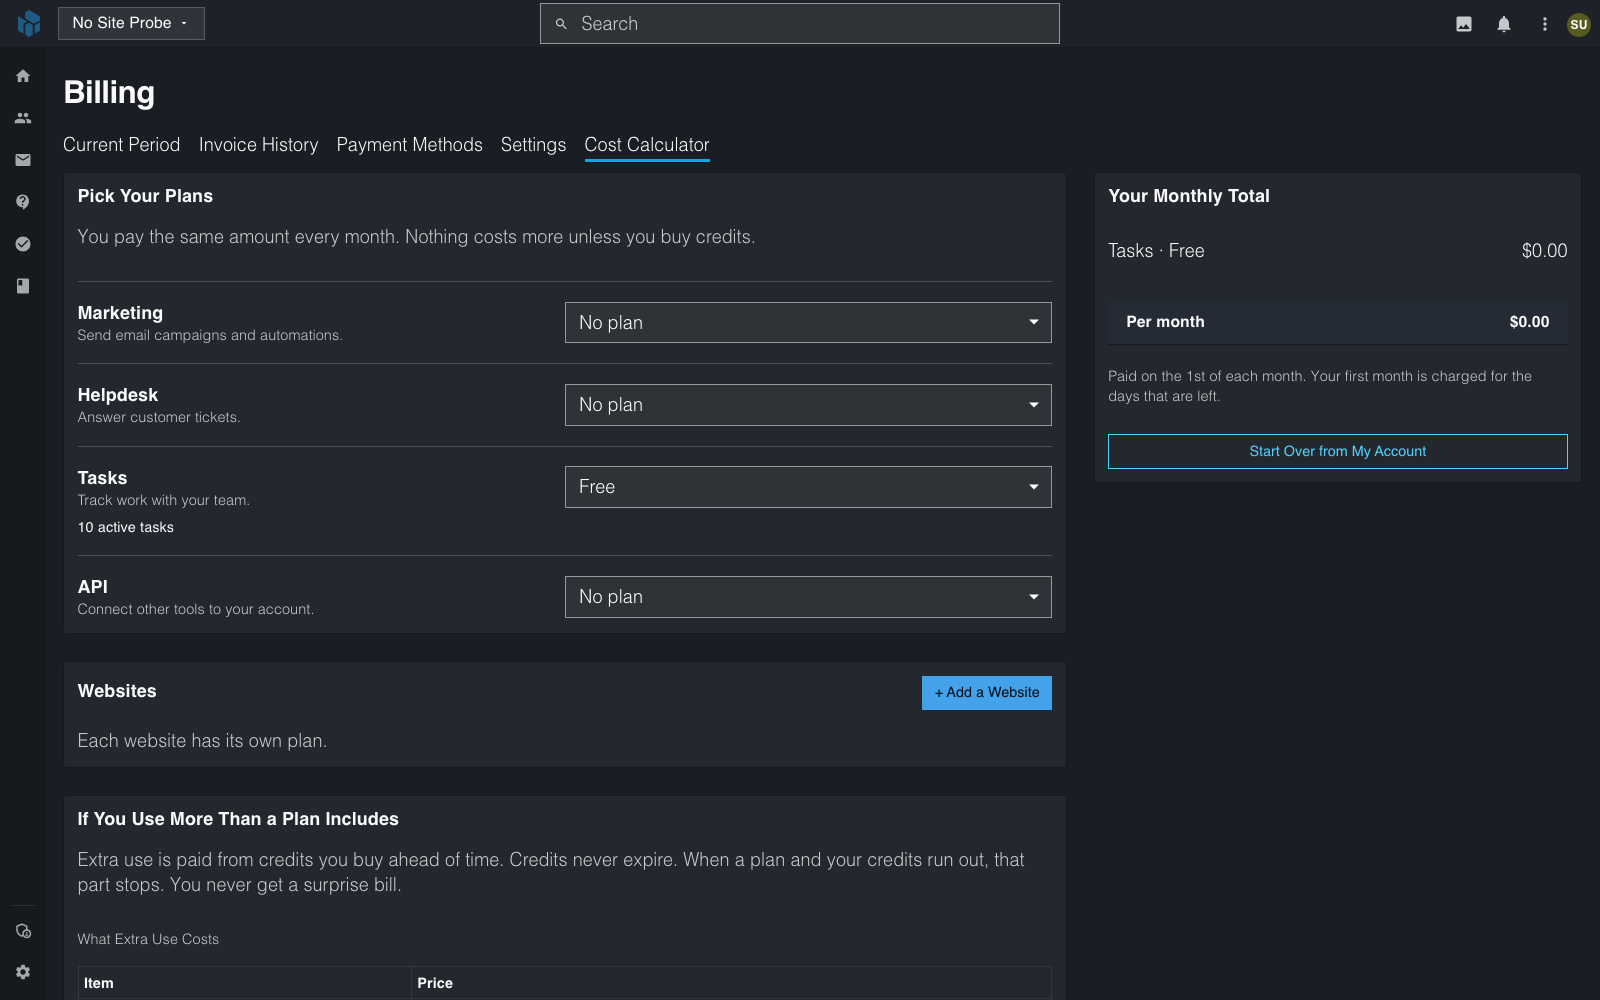
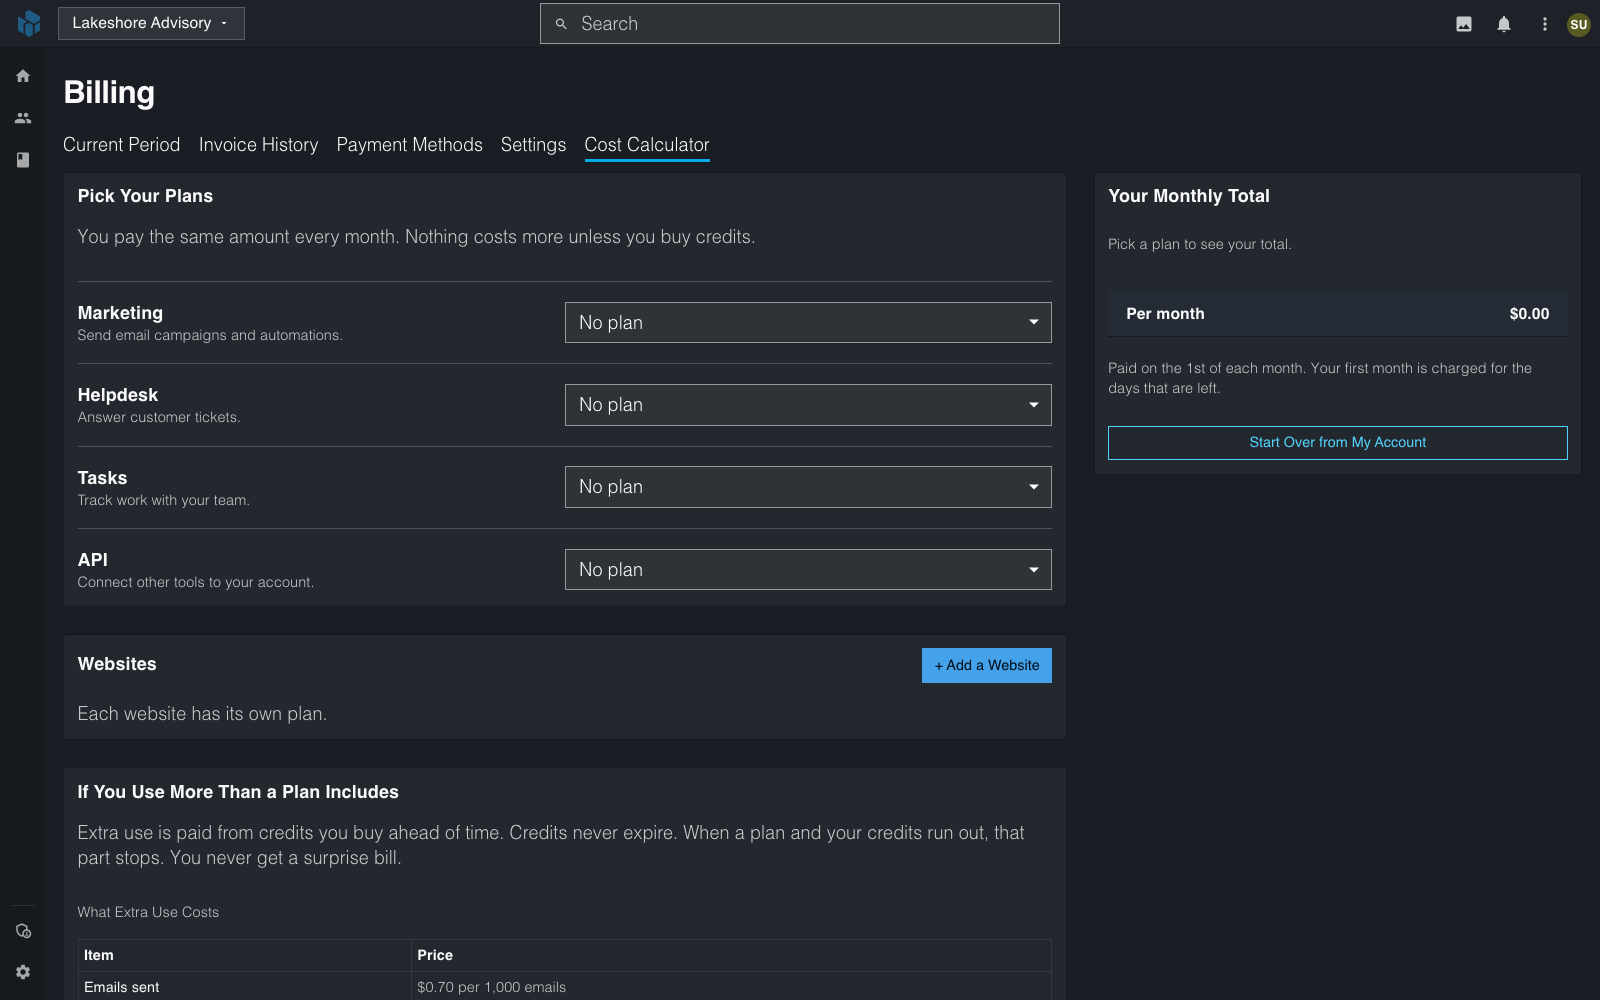
docs(account): Usage and Billing pictures in the Lakeshore Advisory workspace
Retook the picture in a normal workspace name and refreshed Last verified.

diff --git a/account/usage-and-billing.md b/account/usage-and-billing.md
@@ -1,6 +1,6 @@
 # Usage and Billing
 
-**Last verified:** 2026-11-07 10:13am
+**Last verified:** 2026-11-07 10:37am
 
 WebNesting works with plans. You pick a plan for each part of WebNesting you use, and you pay for it on the 1st of the month. If you use more than a plan includes, you pay for the extra with prepaid credits. This guide explains the plans, the credits, what happens at a limit, and how to see your usage and pay.
 
